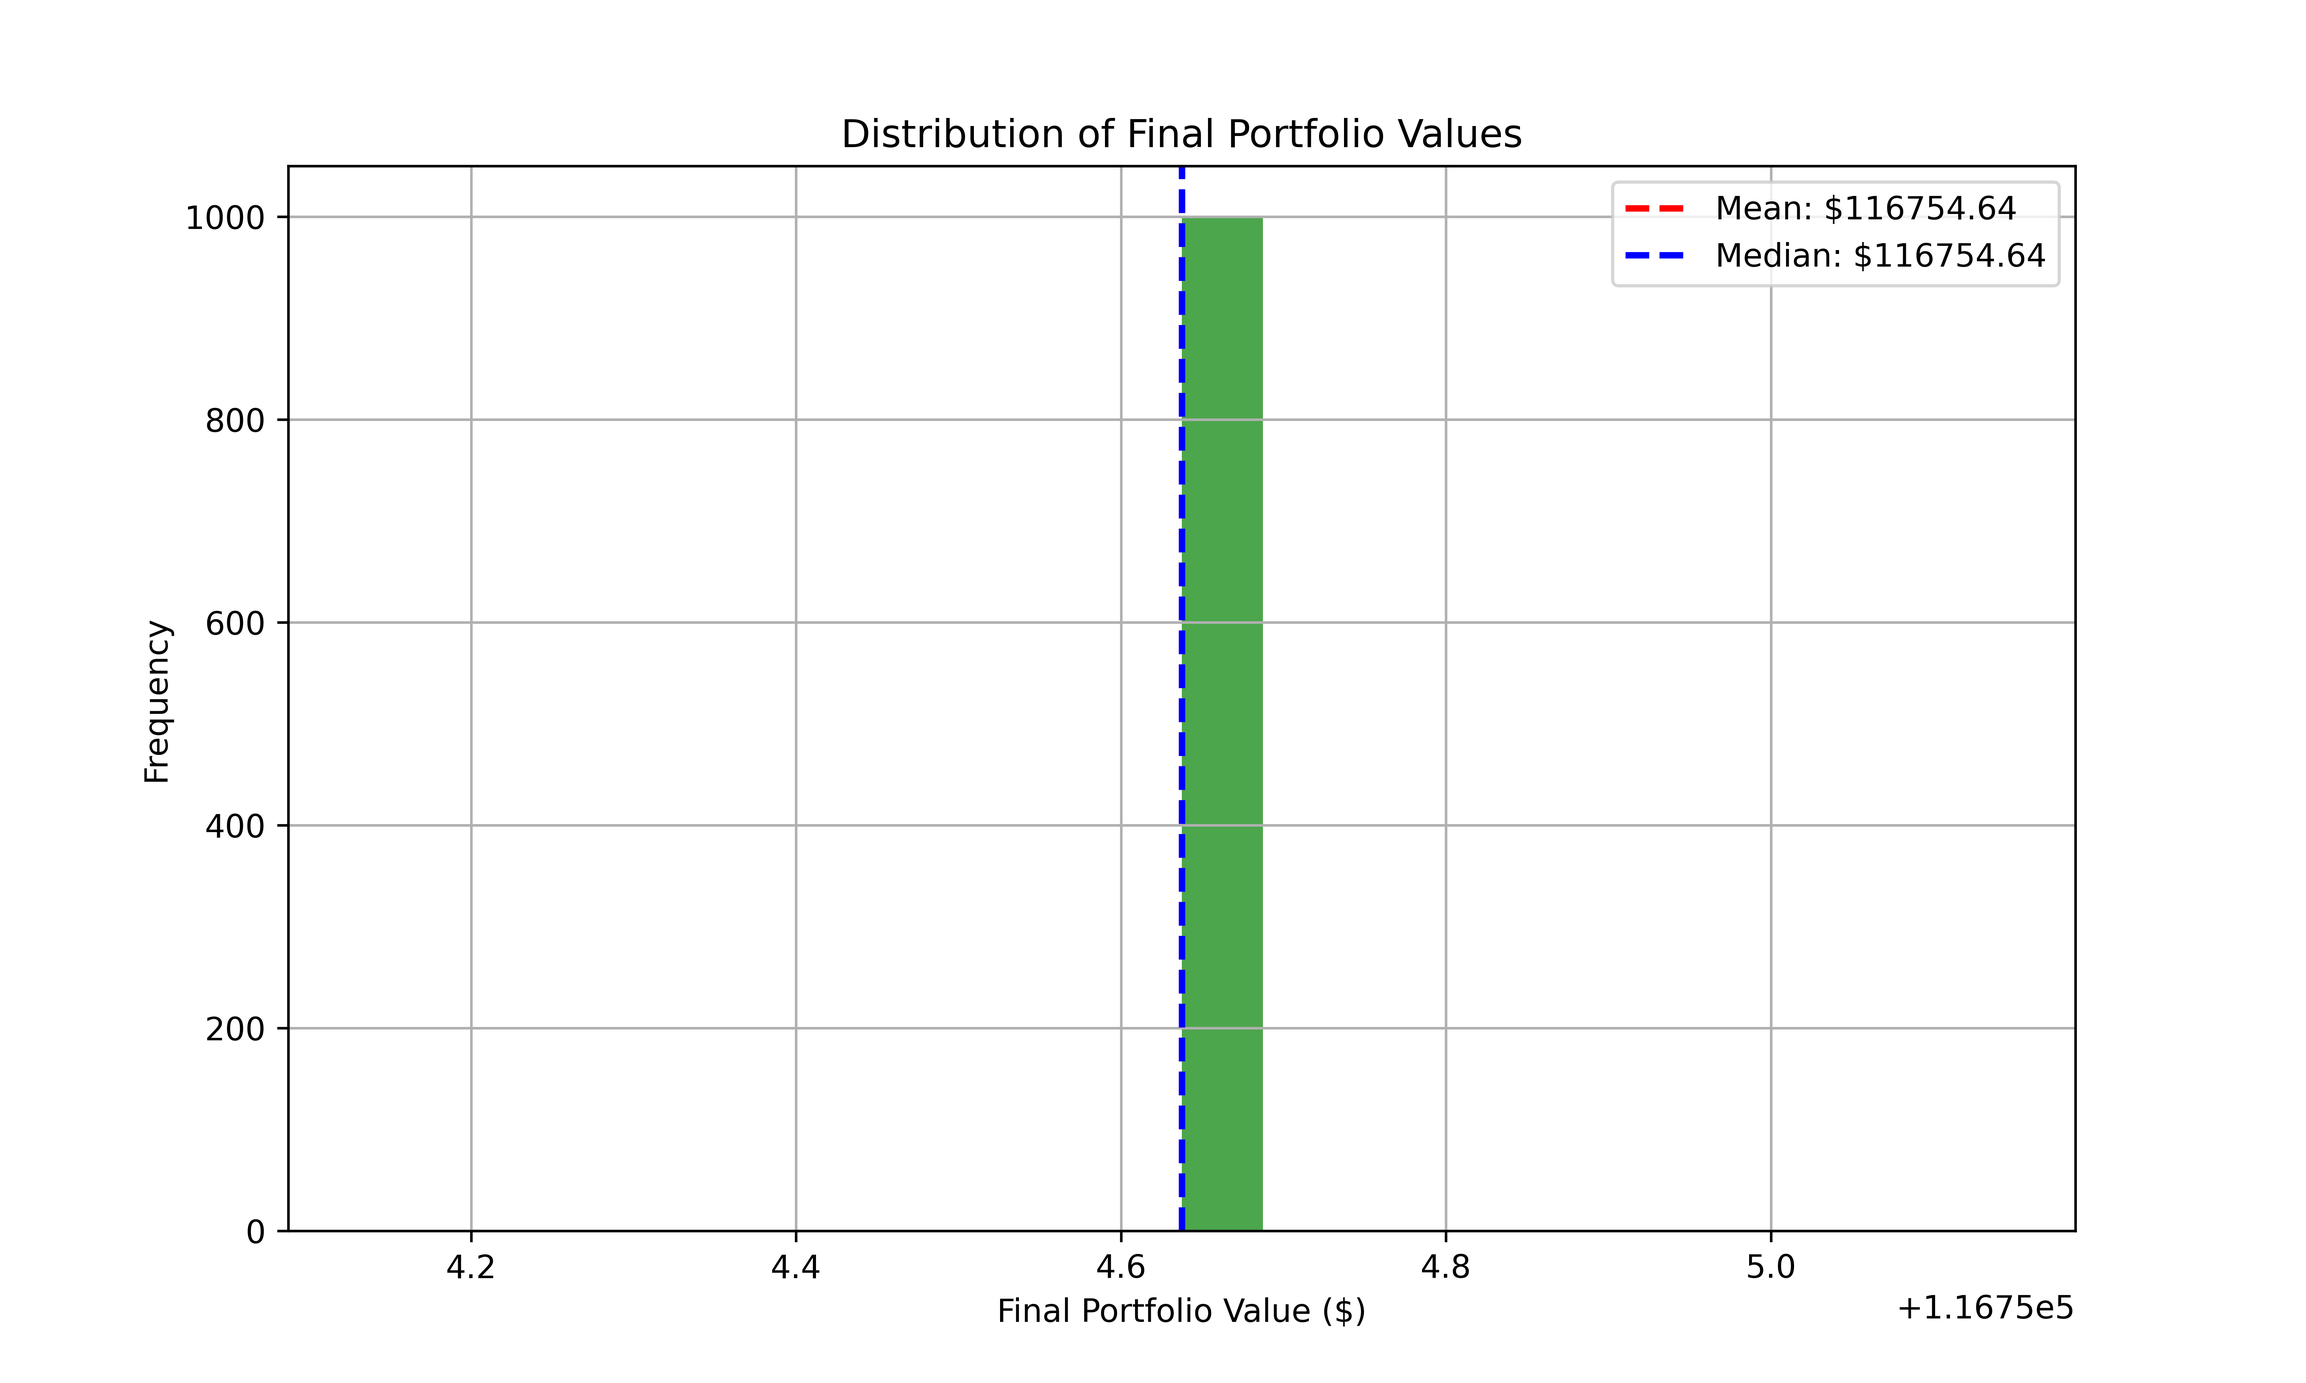
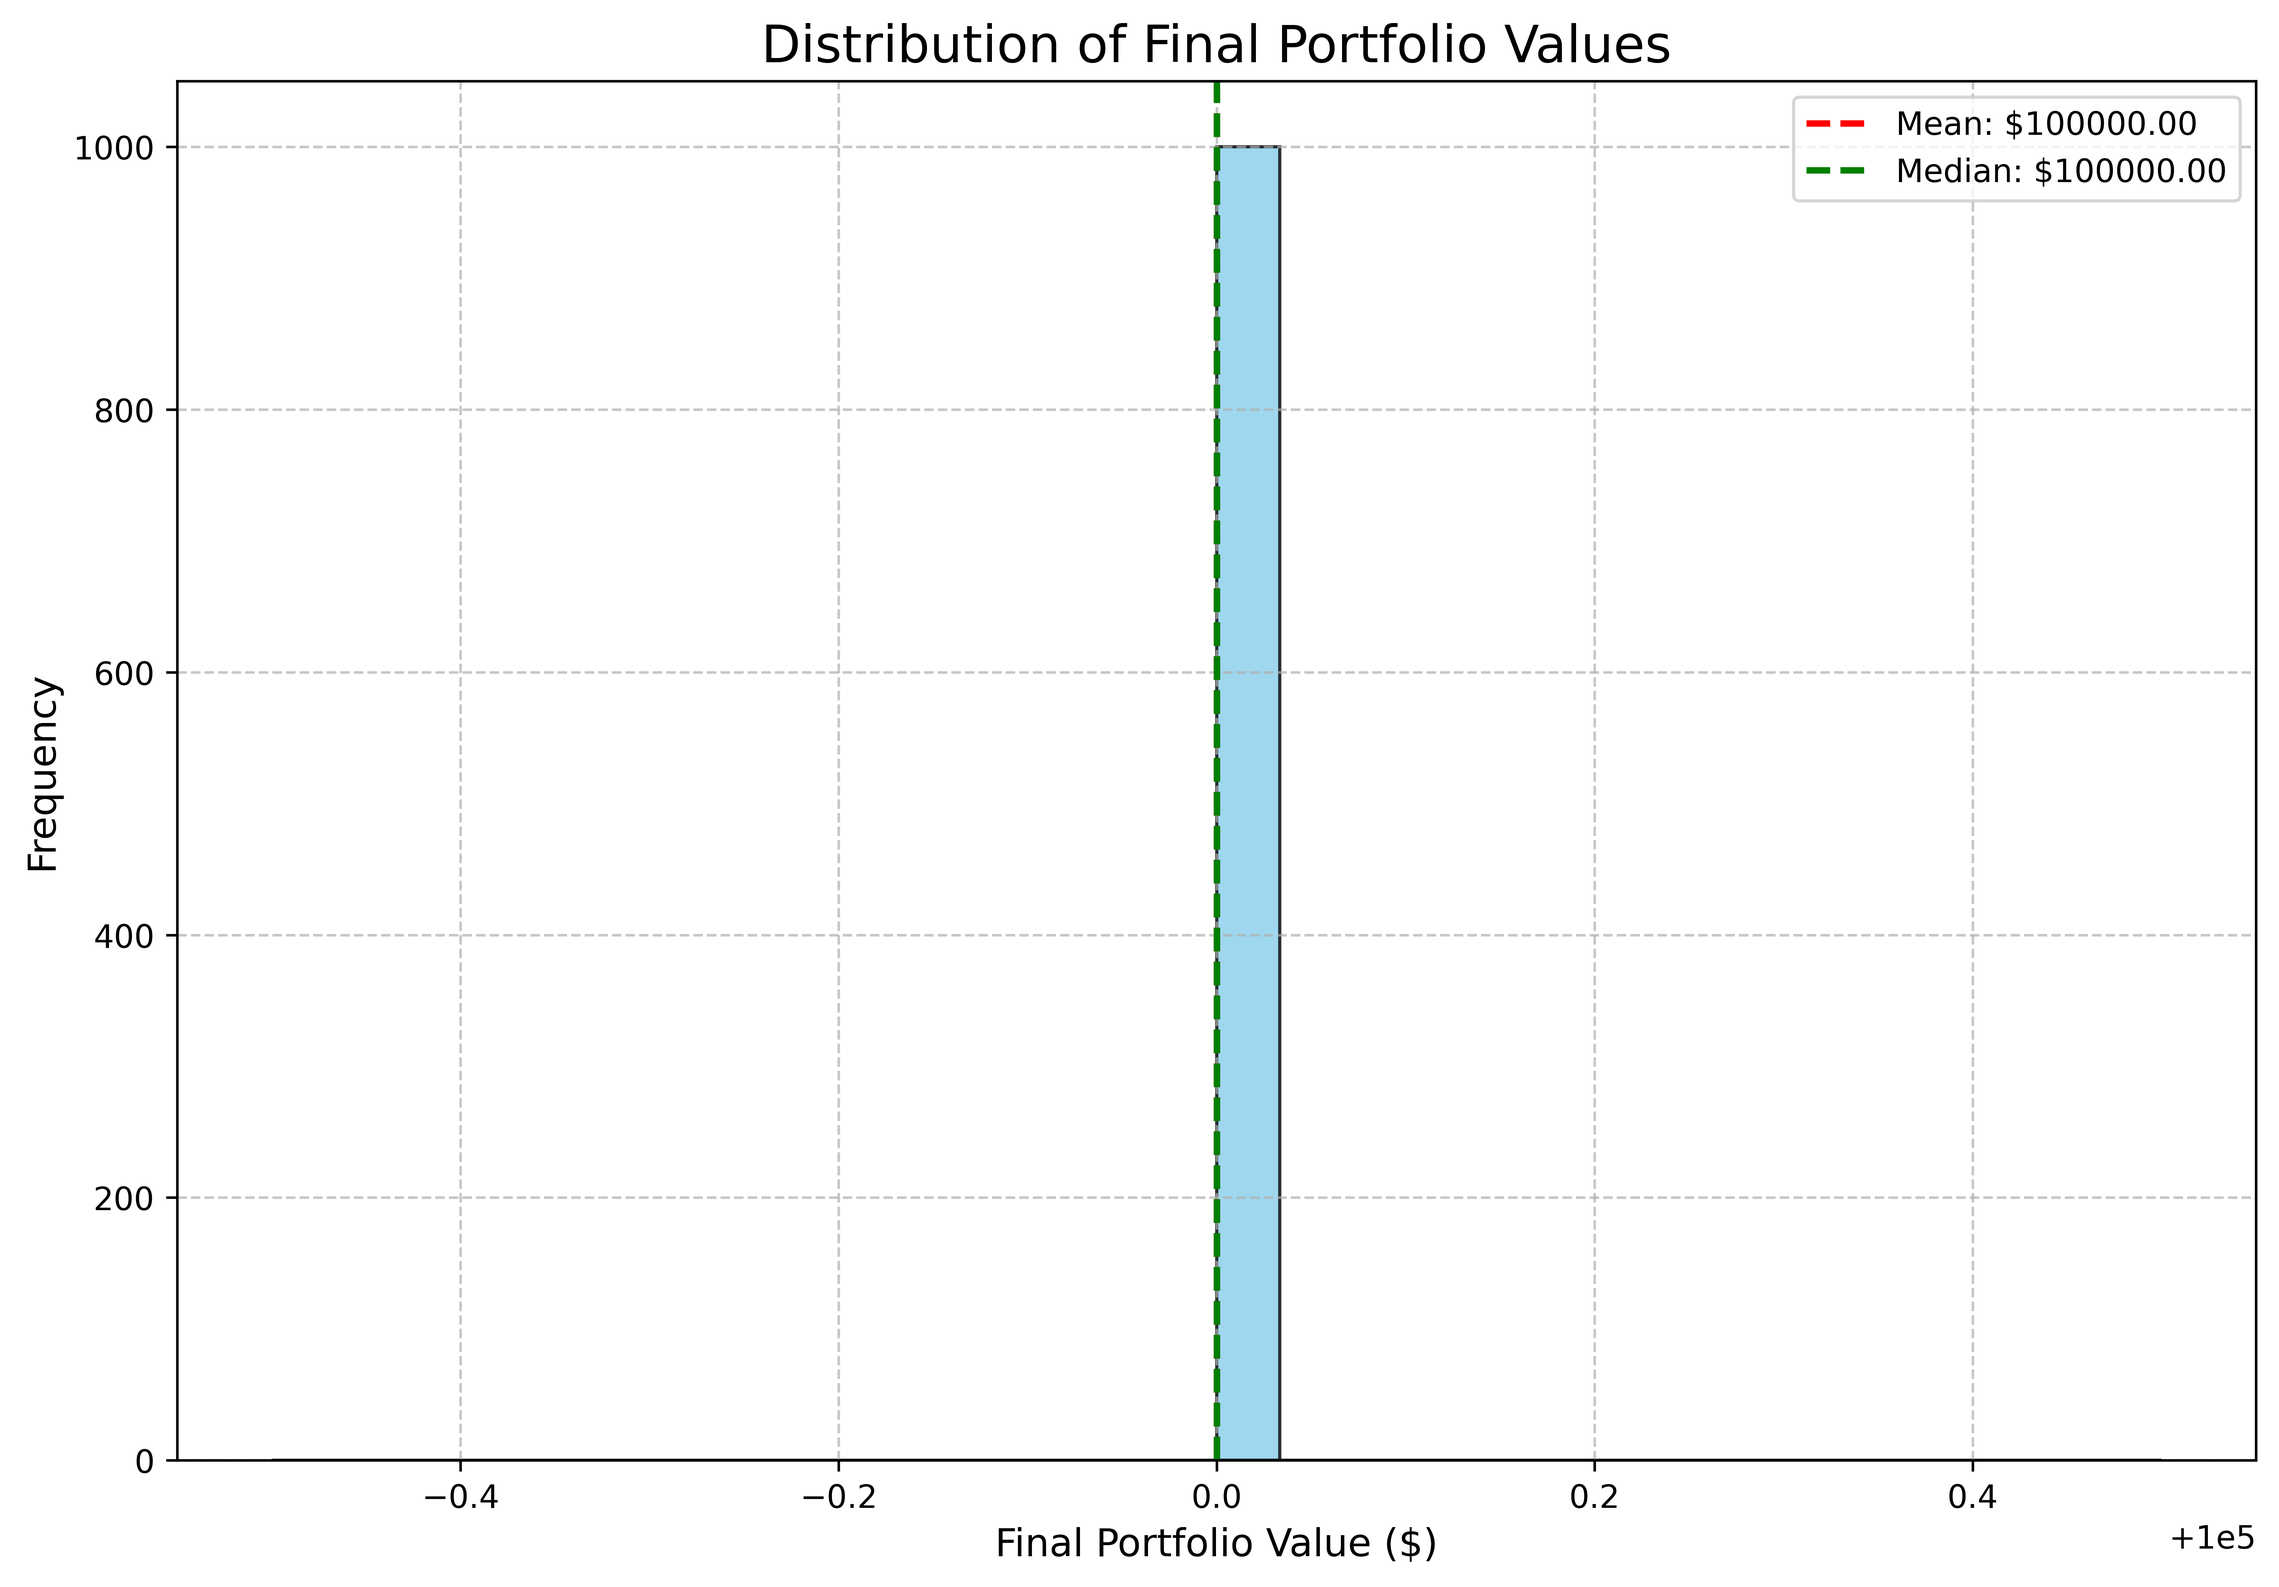
Enhance configuration and optimization features
- Added ALPACA_BASE_URL to .env.example for better configuration management.
- Updated .gitignore to include hyperparameters.json.
- Modified main.py to load hyperparameters from a JSON file and added new parameters for noise and reward scaling.
- Introduced optimization mode in market_automation.sh with cron job setup.
- Updated training and testing processes to improve logging and performance.
- Updated binary files for final values and test results.

diff --git a/main.py b/main.py
@@ -88,7 +88,7 @@ dotenv.load_dotenv()
 # Set up Alpaca API credentials
 ALPACA_API_KEY = os.getenv("ALPACA_API_KEY")
 ALPACA_SECRET_KEY = os.getenv("ALPACA_SECRET_KEY")
-ALPACA_BASE_URL = "https://paper-api.alpaca.markets"
+ALPACA_BASE_URL = os.getenv("ALPACA_BASE_URL", "https://paper-api.alpaca.markets")
 
 # Connect to Alpaca API
 api = tradeapi.REST(
@@ -114,6 +114,7 @@ TRADING_FREQUENCY = "minute"
 MAX_SHARES_PER_TRADE = 100
 TRAINING_EPISODES = 1000
 TEST_EPISODES = 1000
+REWARD_SCALING_FACTOR = 1000.0
 
 if os.path.exists("stocks.json"):
     with open("stocks.json", "r") as f:
@@ -133,6 +134,28 @@ if os.path.exists("stocks.json"):
         except Exception as e:
             logger.error(f"Error loading stock symbols from stocks.json: {e}")
 
+# Load hyperparameters if available
+hyperparams_path = Path("./hyperparameters.json")
+if hyperparams_path.exists():
+    with open(hyperparams_path, "r") as f:
+        try:
+            optimized_params = json.load(f)
+            LEARNING_RATE = optimized_params.get("learning_rate", LEARNING_RATE)
+            BATCH_SIZE = optimized_params.get("batch_size", BATCH_SIZE)
+            GAMMA = optimized_params.get("gamma", GAMMA)
+            NOISE_SIGMA = optimized_params.get("noise_sigma", NOISE_SIGMA)
+            NOISE_THETA = optimized_params.get("noise_theta", NOISE_THETA)
+            REWARD_SCALING_FACTOR = optimized_params.get("reward_scaling_factor", REWARD_SCALING_FACTOR)
+            logger.info(f"Loaded optimized hyperparameters from {hyperparams_path}")
+            logger.info(f"  LEARNING_RATE: {LEARNING_RATE}")
+            logger.info(f"  BATCH_SIZE: {BATCH_SIZE}")
+            logger.info(f"  GAMMA: {GAMMA}")
+            logger.info(f"  NOISE_SIGMA: {NOISE_SIGMA}")
+            logger.info(f"  NOISE_THETA: {NOISE_THETA}")
+            logger.info(f"  REWARD_SCALING_FACTOR: {REWARD_SCALING_FACTOR}")
+        except Exception as e:
+            logger.error(f"Error loading optimized hyperparameters: {e}")
+
 # Cache directory for stock data
 CACHE_DIR = Path("./data_cache")
 CACHE_DIR.mkdir(exist_ok=True)
@@ -144,6 +167,8 @@ LEARNING_RATE = 0.001
 GAMMA = 0.95
 BATCH_SIZE = 4096  # For max GPU utilization on RTX 3090 (with mixed precision)
 MEMORY_SIZE = 100000  # Increased for better training stability
+NOISE_SIGMA = 0.15
+NOISE_THETA = 0.2
 
 
 class ReplayBuffer:
@@ -264,7 +289,7 @@ class ReplayBuffer:
 
 
 class DRLAgent:
-    def __init__(self, state_dim, action_dim, learning_rate=0.001):
+    def __init__(self, state_dim, action_dim, learning_rate=LEARNING_RATE, noise_sigma=NOISE_SIGMA, noise_theta=NOISE_THETA):
         self.state_dim = state_dim
         self.action_dim = action_dim
 
@@ -276,7 +301,7 @@ class DRLAgent:
         self.epsilon_min = 0.01
         self.epsilon_decay = 0.995
         self.learning_rate = learning_rate
-        self.noise = OrnsteinUhlenbeckActionNoise(mu=np.zeros(action_dim))
+        self.noise = OrnsteinUhlenbeckActionNoise(mu=np.zeros(action_dim), sigma=noise_sigma, theta=noise_theta)
 
         # Set default TensorFlow dtype to float32 explicitly
         tf.keras.backend.set_floatx("float32")
@@ -412,7 +437,9 @@ class DRLAgent:
         """TensorFlow function for critic training step"""
         with tf.GradientTape() as tape:
             q_values = self.critic([states, actions], training=True)
-            critic_loss = tf.reduce_mean(tf.square(q_targets - q_values))
+            # Ensure q_values is float32 for calculation with q_targets
+            q_values_float32 = tf.cast(q_values, tf.float32)
+            critic_loss = tf.reduce_mean(tf.square(q_targets - q_values_float32))
 
         critic_grads = tape.gradient(critic_loss, self.critic.trainable_variables)
         # Apply gradient clipping
@@ -461,7 +488,9 @@ class DRLAgent:
         # This calculation can be done in a single batched operation for speed
         next_actions = self.target_actor(next_states_tensor, training=False)
         q_next = self.target_critic([next_states_tensor, next_actions], training=False)
-        q_targets = rewards_tensor + (1 - dones_tensor) * self.gamma * q_next[:, 0]
+        # Ensure q_next is float32 for calculation with gamma and rewards_tensor
+        q_next_float32 = tf.cast(q_next, tf.float32)
+        q_targets = rewards_tensor + (1 - dones_tensor) * self.gamma * q_next_float32[:, 0]
 
         # Run critic and actor training with optimized GPU functions
         critic_loss = self._critic_train_step(
@@ -819,9 +848,13 @@ class StockTradingEnvironment:
 
             # Calculate shares to buy/sell based on the signal strength
             shares_to_buy = int(buy_signal * MAX_SHARES_PER_TRADE)
+            if buy_signal > 0 and shares_to_buy == 0: # Ensure at least 1 share if signal is positive
+                shares_to_buy = 1
             shares_to_sell = int(
                 sell_signal * min(MAX_SHARES_PER_TRADE, self.shares[symbol])
             )
+            if sell_signal > 0 and shares_to_sell == 0: # Ensure at least 1 share if signal is positive
+                shares_to_sell = 1
 
             # Execute buy order if possible
             cost = shares_to_buy * current_price
@@ -851,7 +884,7 @@ class StockTradingEnvironment:
 
         # Avoid division by zero and use faster calculation
         if old_portfolio_value > 0:
-            reward = (new_portfolio_value - old_portfolio_value) / old_portfolio_value
+            reward = ((new_portfolio_value - old_portfolio_value) / old_portfolio_value) * REWARD_SCALING_FACTOR
         else:
             reward = 0.0
 
@@ -1306,6 +1339,7 @@ def optimize_agent():
         gamma = trial.suggest_uniform("gamma", 0.9, 0.99)
         noise_sigma = trial.suggest_uniform("noise_sigma", 0.05, 0.3)
         noise_theta = trial.suggest_uniform("noise_theta", 0.1, 0.5)
+        reward_scaling_factor = trial.suggest_loguniform("reward_scaling_factor", 10.0, 10000.0)
 
         # Update global parameters or pass them to the agent
         global LEARNING_RATE, BATCH_SIZE, GAMMA
@@ -1319,13 +1353,13 @@ def optimize_agent():
 
         # Train the agent with suggested hyperparameters
         env = StockTradingEnvironment(STOCK_SYMBOLS, INITIAL_BALANCE, LOOKBACK_WINDOW)
-        agent = DRLAgent(STATE_DIM, ACTION_DIM, LEARNING_RATE)
-        agent.gamma = GAMMA  # Ensure agent uses the trial's gamma
+        agent = DRLAgent(STATE_DIM, ACTION_DIM, learning_rate, noise_sigma=noise_sigma, noise_theta=noise_theta)
+        agent.gamma = gamma  # Ensure agent uses the trial's gamma
 
         # Train for a reduced number of episodes for optimization speed
         optimization_episodes = 200  # Reduced episodes for faster trials
 
-        for episode in range(optimization_episodes):
+        for episode in tqdm(range(optimization_episodes), desc=f"Trial {trial.number} Training"): # Add tqdm here
             state = env.reset()
             done = False
             while not done:
@@ -1343,7 +1377,7 @@ def optimize_agent():
             STOCK_SYMBOLS, INITIAL_BALANCE, LOOKBACK_WINDOW
         )
         final_values = []
-        for _ in range(50):  # Reduced test episodes for faster evaluation
+        for _ in tqdm(range(50), desc=f"Trial {trial.number} Testing"): # Add tqdm here
             state = test_env.reset()
             done = False
             while not done:
@@ -1359,7 +1393,9 @@ def optimize_agent():
         return mean_final_value
 
     study = optuna.create_study(direction="maximize")
-    study.optimize(objective, n_trials=50)  # Run 50 trials
+    # Create a progress bar for optimization trials
+    for _ in tqdm(range(args.trials), desc="Optimization Progress (Trials)"):
+        study.optimize(objective, n_trials=1, show_progress_bar=False) # Run one trial at a time to update tqdm
 
     logger.info("Optimization finished.")
     logger.info(f"""Best trial:
@@ -1367,18 +1403,25 @@ def optimize_agent():
   Params: {study.best_params}""")
 
     # Update global parameters with the best found
-    global LEARNING_RATE, BATCH_SIZE, GAMMA
+    global LEARNING_RATE, BATCH_SIZE, GAMMA, REWARD_SCALING_FACTOR
     LEARNING_RATE = study.best_params["learning_rate"]
     BATCH_SIZE = study.best_params["batch_size"]
     GAMMA = study.best_params["gamma"]
+    REWARD_SCALING_FACTOR = study.best_params["reward_scaling_factor"]
 
     logger.info("Global hyperparameters updated to best found values.")
+
+    # Save best hyperparameters to a file
+    hyperparams_path = Path("./hyperparameters.json")
+    with open(hyperparams_path, "w") as f:
+        json.dump(study.best_params, f, indent=4)
+    logger.info(f"Best hyperparameters saved to {hyperparams_path}")
 
 
 def train_agent():
     """Train the DRL agent using historical data with optimized GPU acceleration"""
     env = StockTradingEnvironment(STOCK_SYMBOLS, INITIAL_BALANCE, LOOKBACK_WINDOW)
-    agent = DRLAgent(STATE_DIM, ACTION_DIM, LEARNING_RATE)
+    agent = DRLAgent(STATE_DIM, ACTION_DIM, LEARNING_RATE, noise_sigma=NOISE_SIGMA, noise_theta=NOISE_THETA)
 
     best_reward = -np.inf
     checkpoint_interval = 50  # Save every 50 episodes
@@ -1427,7 +1470,7 @@ def train_agent():
             )
             progress_bar.set_postfix(
                 {
-                    "reward": total_reward,
+                    "reward": f"{total_reward:.6f}", # Display more decimal places
                     "value": info["portfolio_value"],
                     "actor_loss": mean_actor_loss,
                     "critic_loss": mean_critic_loss,
@@ -1452,7 +1495,7 @@ def train_agent():
 def test_agent(agent=None):
     """Test the trained agent"""
     if agent is None:
-        agent = DRLAgent(STATE_DIM, ACTION_DIM, LEARNING_RATE)
+        agent = DRLAgent(STATE_DIM, ACTION_DIM, LEARNING_RATE, noise_sigma=NOISE_SIGMA, noise_theta=NOISE_THETA)
         agent.load_models("./models")
 
     env = StockTradingEnvironment(STOCK_SYMBOLS, INITIAL_BALANCE, LOOKBACK_WINDOW)
@@ -1479,7 +1522,7 @@ def test_agent(agent=None):
 
         if episode % 10 == 0:  # Print only every 10 episodes to reduce output
             logger.info(
-                f"Test Episode {episode + 1}/{TEST_EPISODES}, Final Reward: {total_reward:.4f}, Final Portfolio Value: {info['portfolio_value']:.2f}"
+                f"Test Episode {episode + 1}/{TEST_EPISODES}, Final Reward: {total_reward:.6f}, Final Portfolio Value: {info['portfolio_value']:.2f}"
             )
 
     # Calculate statistics
@@ -1614,7 +1657,7 @@ def run_live_trading():
     """Run the agent in live trading mode with Alpaca"""
     logger.info("Starting live trading...")
     # Load trained agent
-    agent = DRLAgent(STATE_DIM, ACTION_DIM, LEARNING_RATE)
+    agent = DRLAgent(STATE_DIM, ACTION_DIM, LEARNING_RATE, noise_sigma=NOISE_SIGMA, noise_theta=NOISE_THETA)
     if not agent.load_models("./models"):
         logger.error("Failed to load model weights. Please train the model first.")
         return
@@ -1765,6 +1808,12 @@ if __name__ == "__main__":
         type=int,
         default=TRAINING_EPISODES,
         help="Number of epochs for training",
+    )
+    parser.add_argument(
+        "--trials",
+        type=int,
+        default=50,
+        help="Number of trials for hyperparameter optimization",
     )
     parser.add_argument(
         "--gpu",
